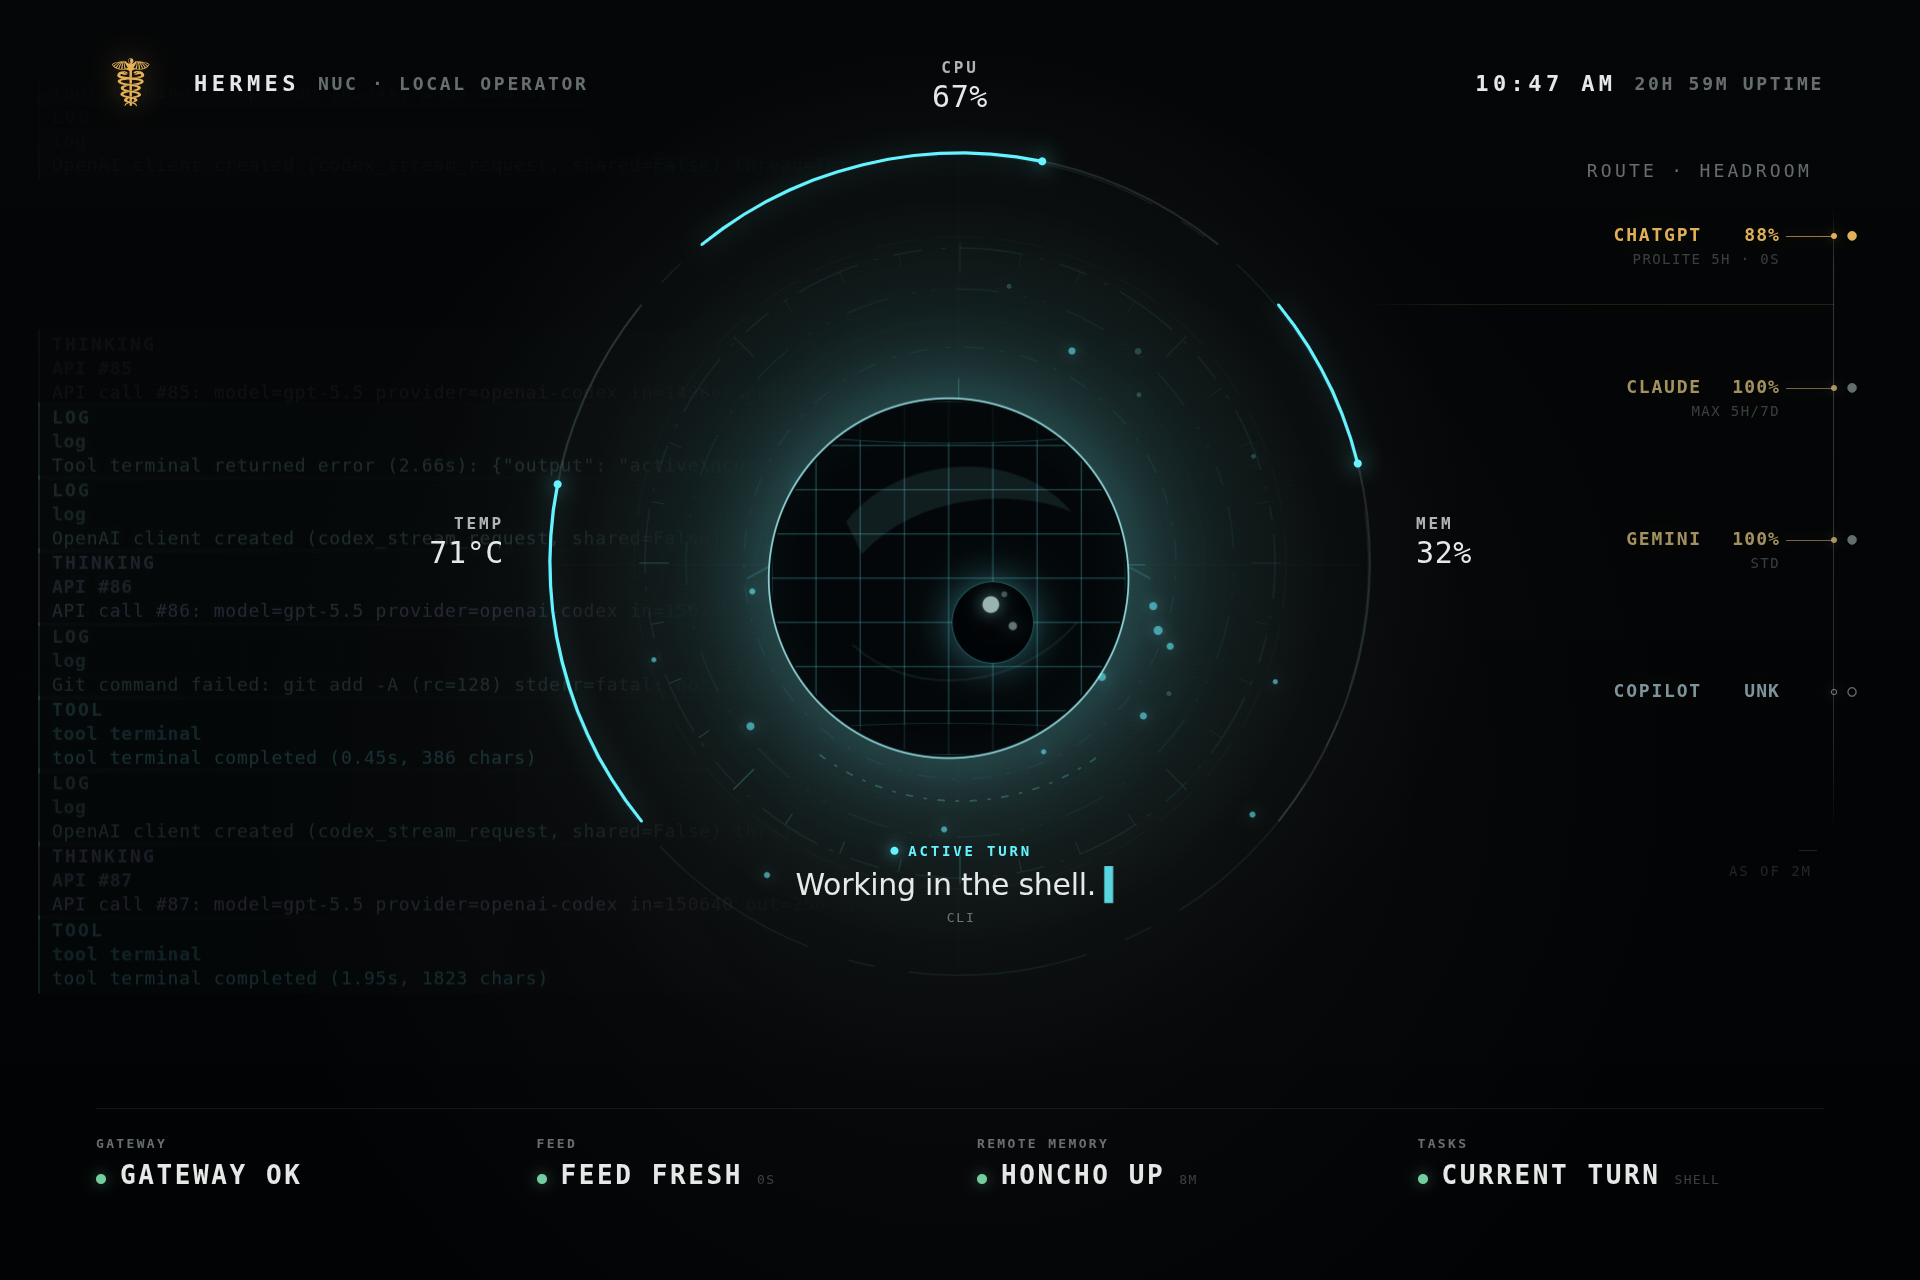
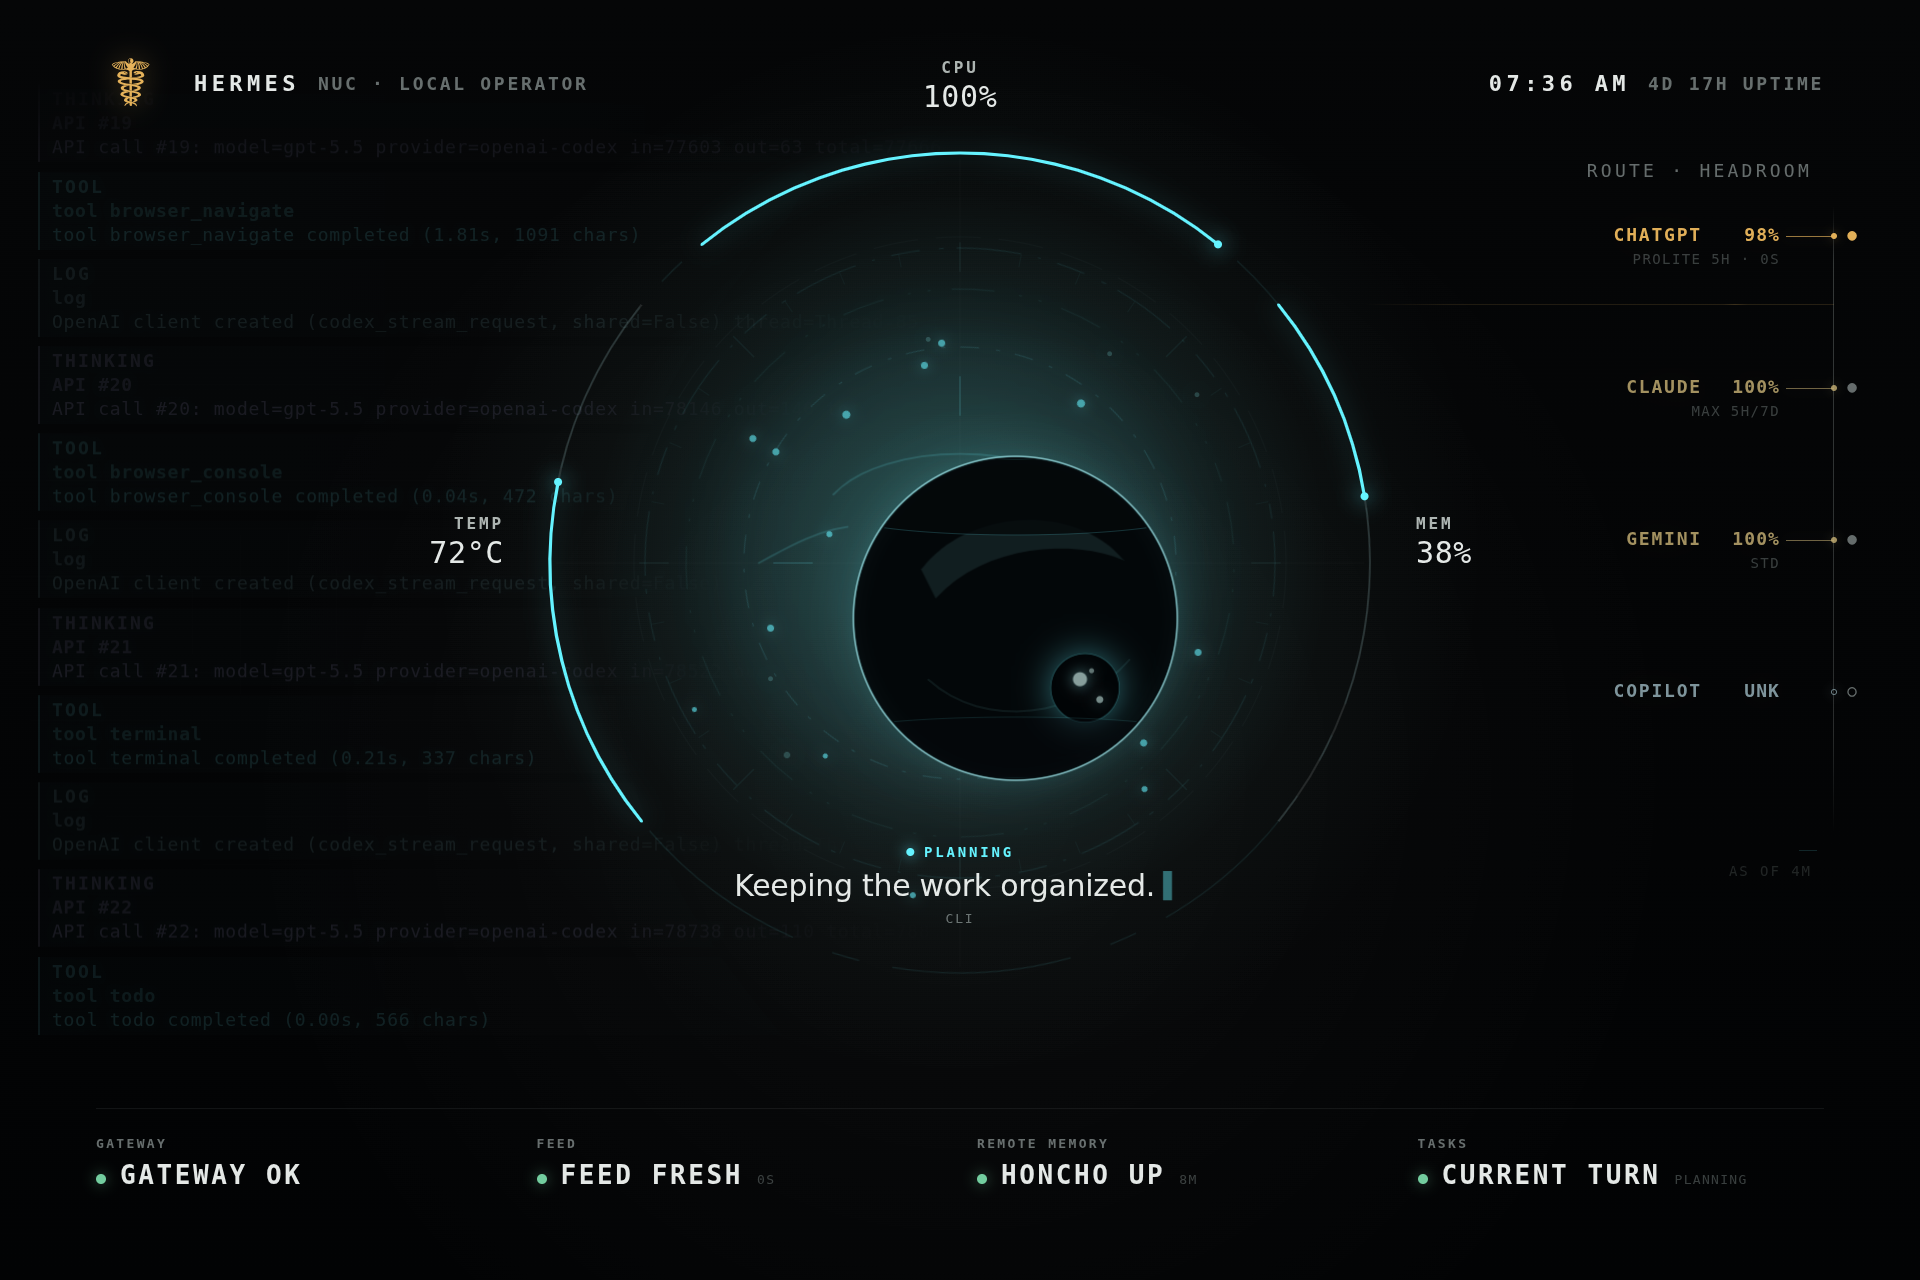
[verified] Add gated taste prototype

diff --git a/src/styles.css b/src/styles.css
@@ -2143,6 +2143,195 @@ body.kiosk-mode.kiosk-landscape.claude-concept-b .cb-route-standby.quiet {
   opacity: 0.56;
 }
 
+/* Taste prototype, URL-gated with `taste=1` so the live kiosk baseline remains unchanged.
+   Intent: test the new design-taste-frontend feedback without rewriting the runtime:
+   less ghost texture, stronger scan hierarchy, louder high-load semantics, and a route rail
+   that reads from the physical 1920x1280 display rather than only up close. */
+body.kiosk-mode.kiosk-landscape.claude-concept-b.taste-prototype .cb-bg-parallax {
+  opacity: 0.26;
+  filter: blur(1px);
+}
+
+body.kiosk-mode.kiosk-landscape.claude-concept-b.taste-prototype .cb-radial-stage {
+  width: 980px;
+  height: 980px;
+}
+
+body.kiosk-mode.kiosk-landscape.claude-concept-b.taste-prototype #display-root,
+body.kiosk-mode.kiosk-landscape.claude-concept-b.taste-prototype #display-root canvas,
+body.kiosk-mode.kiosk-landscape.claude-concept-b.taste-prototype #display-root svg {
+  width: 640px !important;
+  height: 640px !important;
+}
+
+body.kiosk-mode.kiosk-landscape.claude-concept-b.taste-prototype .cb-arc-label {
+  font-size: 21px;
+  fill: color-mix(in srgb, var(--cb-fg-0) 76%, var(--cb-accent));
+}
+
+body.kiosk-mode.kiosk-landscape.claude-concept-b.taste-prototype .cb-arc-value {
+  font-weight: 720;
+  font-size: 36px;
+}
+
+body.kiosk-mode.kiosk-landscape.claude-concept-b.taste-prototype [data-cb-arc][data-severity="warn"] .cb-arc-fill,
+body.kiosk-mode.kiosk-landscape.claude-concept-b.taste-prototype [data-cb-arc][data-severity="warn"] .cb-arc-dot {
+  stroke: var(--cb-ochre);
+  fill: var(--cb-ochre);
+  filter: drop-shadow(0 0 18px color-mix(in srgb, var(--cb-ochre) 58%, transparent));
+}
+
+body.kiosk-mode.kiosk-landscape.claude-concept-b.taste-prototype [data-cb-arc][data-severity="hot"] .cb-arc-fill,
+body.kiosk-mode.kiosk-landscape.claude-concept-b.taste-prototype [data-cb-arc][data-severity="hot"] .cb-arc-dot {
+  stroke: var(--cb-rust);
+  fill: var(--cb-rust);
+  stroke-width: 8;
+  filter: drop-shadow(0 0 34px color-mix(in srgb, var(--cb-rust) 88%, transparent));
+}
+
+body.kiosk-mode.kiosk-landscape.claude-concept-b.taste-prototype [data-cb-arc][data-severity="hot"] .cb-arc-track {
+  stroke: color-mix(in srgb, var(--cb-rust) 34%, transparent);
+  stroke-width: 4;
+}
+
+body.kiosk-mode.kiosk-landscape.claude-concept-b.taste-prototype [data-cb-arc][data-severity="hot"] .cb-arc-label {
+  fill: color-mix(in srgb, var(--cb-rust) 86%, var(--cb-fg-0));
+  font-weight: 900;
+}
+
+body.kiosk-mode.kiosk-landscape.claude-concept-b.taste-prototype [data-cb-arc][data-severity="hot"] .cb-arc-value {
+  fill: var(--cb-rust);
+  font-weight: 900;
+  paint-order: stroke;
+  stroke: rgba(0, 0, 0, 0.72);
+  stroke-width: 4px;
+}
+
+body.kiosk-mode.kiosk-landscape.claude-concept-b.taste-prototype [data-cb-arc][data-severity="hot"] .cb-arc-dot {
+  r: 7px;
+}
+
+body.kiosk-mode.kiosk-landscape.claude-concept-b.taste-prototype .cb-route-rail {
+  right: 52px;
+  width: 390px;
+}
+
+body.kiosk-mode.kiosk-landscape.claude-concept-b.taste-prototype .cb-route-title {
+  right: 84px;
+  color: color-mix(in srgb, var(--cb-amber) 72%, var(--cb-fg-0));
+  font-size: 21px;
+}
+
+body.kiosk-mode.kiosk-landscape.claude-concept-b.taste-prototype .cb-route-spine {
+  right: 52px;
+  width: 3px;
+  background: linear-gradient(180deg, transparent, rgba(229, 178, 90, 0.46) 9%, rgba(214, 226, 222, 0.28) 84%, transparent);
+}
+
+body.kiosk-mode.kiosk-landscape.claude-concept-b.taste-prototype .cb-route-label {
+  right: 118px;
+  min-width: 250px;
+  grid-template-columns: minmax(122px, auto) 86px;
+  column-gap: 18px;
+}
+
+body.kiosk-mode.kiosk-landscape.claude-concept-b.taste-prototype .cb-route-label strong,
+body.kiosk-mode.kiosk-landscape.claude-concept-b.taste-prototype .cb-route-label span {
+  font-size: 24px;
+  font-weight: 820;
+}
+
+body.kiosk-mode.kiosk-landscape.claude-concept-b.taste-prototype .cb-route-label em {
+  color: color-mix(in srgb, var(--cb-fg-1) 76%, transparent);
+  font-size: 16px;
+}
+
+body.kiosk-mode.kiosk-landscape.claude-concept-b.taste-prototype .cb-route-whisker {
+  right: 52px;
+  top: 15px;
+  width: calc(104px * var(--route-headroom));
+  height: 4px;
+  opacity: 0.90;
+  border-radius: 999px;
+  box-shadow: 0 0 18px color-mix(in srgb, currentColor 36%, transparent);
+}
+
+body.kiosk-mode.kiosk-landscape.claude-concept-b.taste-prototype .cb-route-node {
+  right: 47px;
+  top: 10px;
+  width: 12px;
+  height: 12px;
+}
+
+body.kiosk-mode.kiosk-landscape.claude-concept-b.taste-prototype .cb-route-glyph {
+  right: 4px;
+  top: 4px;
+  width: 28px;
+  font-size: 22px;
+}
+
+body.kiosk-mode.kiosk-landscape.claude-concept-b.taste-prototype .cb-route-active-hairline {
+  right: 52px;
+  height: 3px;
+  background: linear-gradient(90deg, transparent, color-mix(in srgb, var(--cb-amber) 26%, transparent) 18%, color-mix(in srgb, var(--cb-amber) 40%, transparent) 100%);
+}
+
+body.kiosk-mode.kiosk-landscape.claude-concept-b.taste-prototype .cb-route-standby {
+  right: 84px;
+  font-size: 16px;
+  opacity: 0.72;
+}
+
+body.kiosk-mode.kiosk-landscape.claude-concept-b.taste-prototype[data-system-load="hot"] .cb-topbar::after,
+body.kiosk-mode.kiosk-landscape.claude-concept-b.taste-prototype[data-system-load="warn"] .cb-topbar::after {
+  content: 'LOAD HIGH';
+  position: fixed;
+  left: 50%;
+  top: 132px;
+  transform: translateX(-50%);
+  padding: 10px 20px 11px;
+  border-radius: 999px;
+  border: 2px solid color-mix(in srgb, var(--cb-rust) 72%, transparent);
+  background: rgba(42, 14, 10, 0.72);
+  color: color-mix(in srgb, var(--cb-rust) 88%, var(--cb-fg-0));
+  font: 950 24px/1 ui-monospace, SFMono-Regular, Menlo, Consolas, monospace;
+  letter-spacing: 0.18em;
+  text-shadow: 0 0 20px color-mix(in srgb, var(--cb-rust) 72%, transparent);
+  box-shadow: 0 0 30px color-mix(in srgb, var(--cb-rust) 28%, transparent), inset 0 0 20px rgba(200, 119, 90, 0.10);
+}
+
+body.kiosk-mode.kiosk-landscape.claude-concept-b.taste-prototype[data-system-load="warn"] .cb-topbar::after {
+  content: 'LOAD WATCH';
+  border-color: color-mix(in srgb, var(--cb-ochre) 70%, transparent);
+  background: rgba(42, 31, 10, 0.68);
+  color: color-mix(in srgb, var(--cb-ochre) 88%, var(--cb-fg-0));
+  text-shadow: 0 0 20px color-mix(in srgb, var(--cb-ochre) 62%, transparent);
+}
+
+body.kiosk-mode.kiosk-landscape.claude-concept-b.taste-prototype .cb-state {
+  font-size: 18px;
+  font-weight: 780;
+}
+
+body.kiosk-mode.kiosk-landscape.claude-concept-b.taste-prototype .cb-line {
+  font-size: 34px;
+  font-weight: 580;
+}
+
+body.kiosk-mode.kiosk-landscape.claude-concept-b.taste-prototype .cb-source,
+body.kiosk-mode.kiosk-landscape.claude-concept-b.taste-prototype .cb-cell > span,
+body.kiosk-mode.kiosk-landscape.claude-concept-b.taste-prototype .cb-cell em {
+  font-size: 16px;
+  color: color-mix(in srgb, var(--cb-fg-1) 82%, transparent);
+}
+
+body.kiosk-mode.kiosk-landscape.claude-concept-b.taste-prototype .cb-cell i.lost,
+body.kiosk-mode.kiosk-landscape.claude-concept-b.taste-prototype .cb-cell i.watch,
+body.kiosk-mode.kiosk-landscape.claude-concept-b.taste-prototype .cb-cell i.stale {
+  width: 14px;
+  height: 14px;
+}
+
 @keyframes cb-route-breath {
   0%, 100% { transform: translateX(10px); opacity: 0; }
   38% { opacity: 0.45; }

diff --git a/src/mascot-v2/app.js b/src/mascot-v2/app.js
@@ -1784,6 +1784,10 @@
       const cpuPct = measurementValue(sys, 'cpu');
       const memPct = measurementValue(sys, 'memory');
       const cpuTemp = measurementValue(sys, 'cpu_temp_c', 'temp_c');
+      const cpuLoadPercent = metricAvailable(cpuPct, measurements.cpu) ? cpuPct * 100 : NaN;
+      const loadSeverity = Number.isFinite(cpuLoadPercent)
+        ? cpuLoadPercent >= 95 ? 'hot' : cpuLoadPercent >= 85 ? 'warn' : 'ok'
+        : 'unknown';
       const freshnessTier = liveStatus.failures >= 8 ? 'lost' : liveStatus.failures ? 'stale' : live.freshness?.tier || 'fresh';
       const activity = buildActivityCard(live, currentPacket, liveStatus);
       const label = activityLabel(live, currentPacket.mood);
@@ -1809,12 +1813,13 @@
 
       setConceptBStyleProperty(refs.root, '--cb-accent', instrumentAccent);
       setConceptBDataset(refs.body, 'cbMode', label.toLowerCase().replace(/[^a-z0-9]+/g, '-'));
+      setConceptBDataset(refs.body, 'systemLoad', loadSeverity);
       updateClockMinuteBoundary();
       setConceptBText(refs.uptime, familyAudience ? 'FAMILY THEATER' : (sys.uptime ? `${safeDisplayText(sys.uptime, 18).toUpperCase()} UPTIME` : 'LOCAL TIME'));
 
-      updateConceptBArc(refs.cpuArc, 'CPU', metricAvailable(cpuPct, measurements.cpu) ? cpuPct * 100 : NaN, '%', 'top');
-      updateConceptBArc(refs.memArc, 'MEM', metricAvailable(memPct, measurements.memory) ? memPct * 100 : NaN, '%', 'right');
-      updateConceptBArc(refs.tempArc, 'TEMP', metricAvailable(cpuTemp, measurements.cpu_temp_c || measurements.temp_c) ? ((cpuTemp - 30) / 65) * 100 : NaN, '°C', 'left', cpuTemp);
+      updateConceptBArc(refs.cpuArc, 'CPU', cpuLoadPercent, '%', 'top', null, 'cpu');
+      updateConceptBArc(refs.memArc, 'MEM', metricAvailable(memPct, measurements.memory) ? memPct * 100 : NaN, '%', 'right', null, 'mem');
+      updateConceptBArc(refs.tempArc, 'TEMP', metricAvailable(cpuTemp, measurements.cpu_temp_c || measurements.temp_c) ? ((cpuTemp - 30) / 65) * 100 : NaN, '°C', 'left', cpuTemp, 'temp');
       rememberTrend(trends.cpu, cpuPct);
       rememberTrend(trends.temp, cpuTemp);
 
@@ -3003,7 +3008,7 @@
     return '';
   }
 
-  function updateConceptBArc(group, label, value, unit, side, displayValue = null) {
+  function updateConceptBArc(group, label, value, unit, side, displayValue = null, metricMode = '') {
     if (!group) return;
     const safe = Number.isFinite(Number(value));
     const pct = Math.max(0, Math.min(100, safe ? Number(value) : 0));
@@ -3037,6 +3042,10 @@
       setConceptBAttribute(valueEl, 'y', String(ny));
       setConceptBAttribute(valueEl, 'text-anchor', anchor);
     }
+    const severityClass = safe ? metricClassFor(metricMode === 'temp' ? displayValue : pct, metricMode) : 'metric-unknown';
+    const severity = /hot/.test(severityClass) ? 'hot' : /warn/.test(severityClass) ? 'warn' : /unknown/.test(severityClass) ? 'unknown' : 'ok';
+    setConceptBDataset(group, 'metric', metricMode || 'generic');
+    setConceptBDataset(group, 'severity', severity);
     if (group.classList.contains('unknown') === safe) group.classList.toggle('unknown', !safe);
   }
 
@@ -3494,9 +3503,11 @@
     const kiosk = ['1', 'true', 'yes'].includes((params.get('kiosk') || '').toLowerCase());
     const landscape = ['landscape', 'right', 'cw'].includes((params.get('orientation') || '').toLowerCase());
     const family = ['family', 'theater'].includes((params.get('audience') || '').toLowerCase()) || (params.get('view') || '').toLowerCase() === 'theater';
+    const tastePrototype = ['1', 'true', 'yes'].includes((params.get('taste') || '').toLowerCase());
     document.body.classList.toggle('kiosk-mode', kiosk);
     document.body.classList.toggle('kiosk-landscape', kiosk && landscape);
     document.body.classList.toggle('family-theater', kiosk && family);
+    document.body.classList.toggle('taste-prototype', kiosk && landscape && tastePrototype);
     document.body.dataset.audience = family ? 'family' : 'operator';
     if (kiosk) {
       document.body.setAttribute('data-display-mode', 'kiosk');
